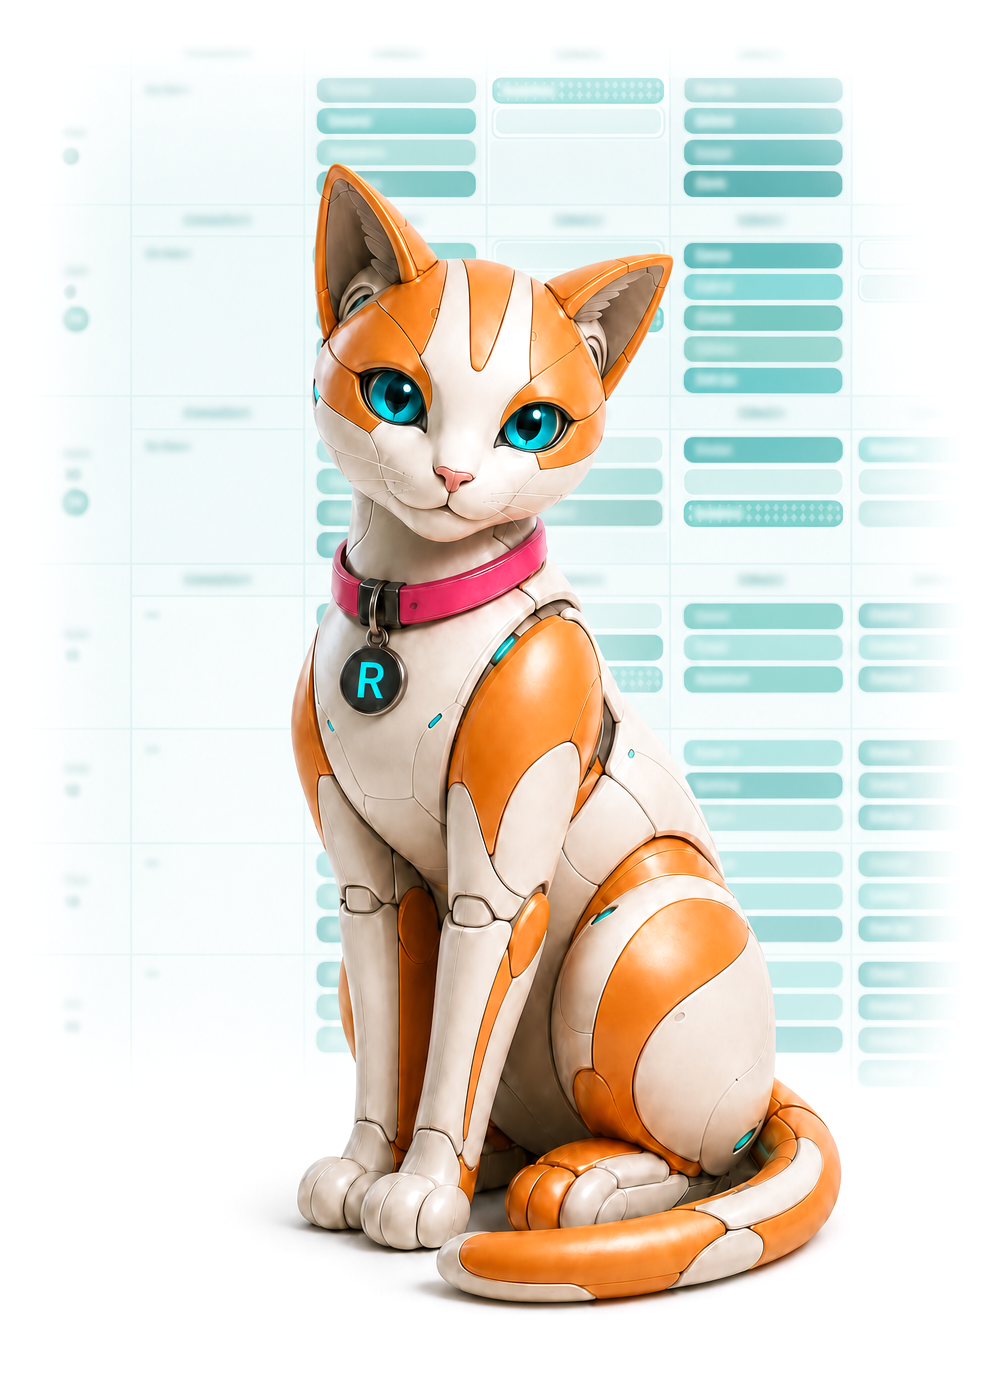
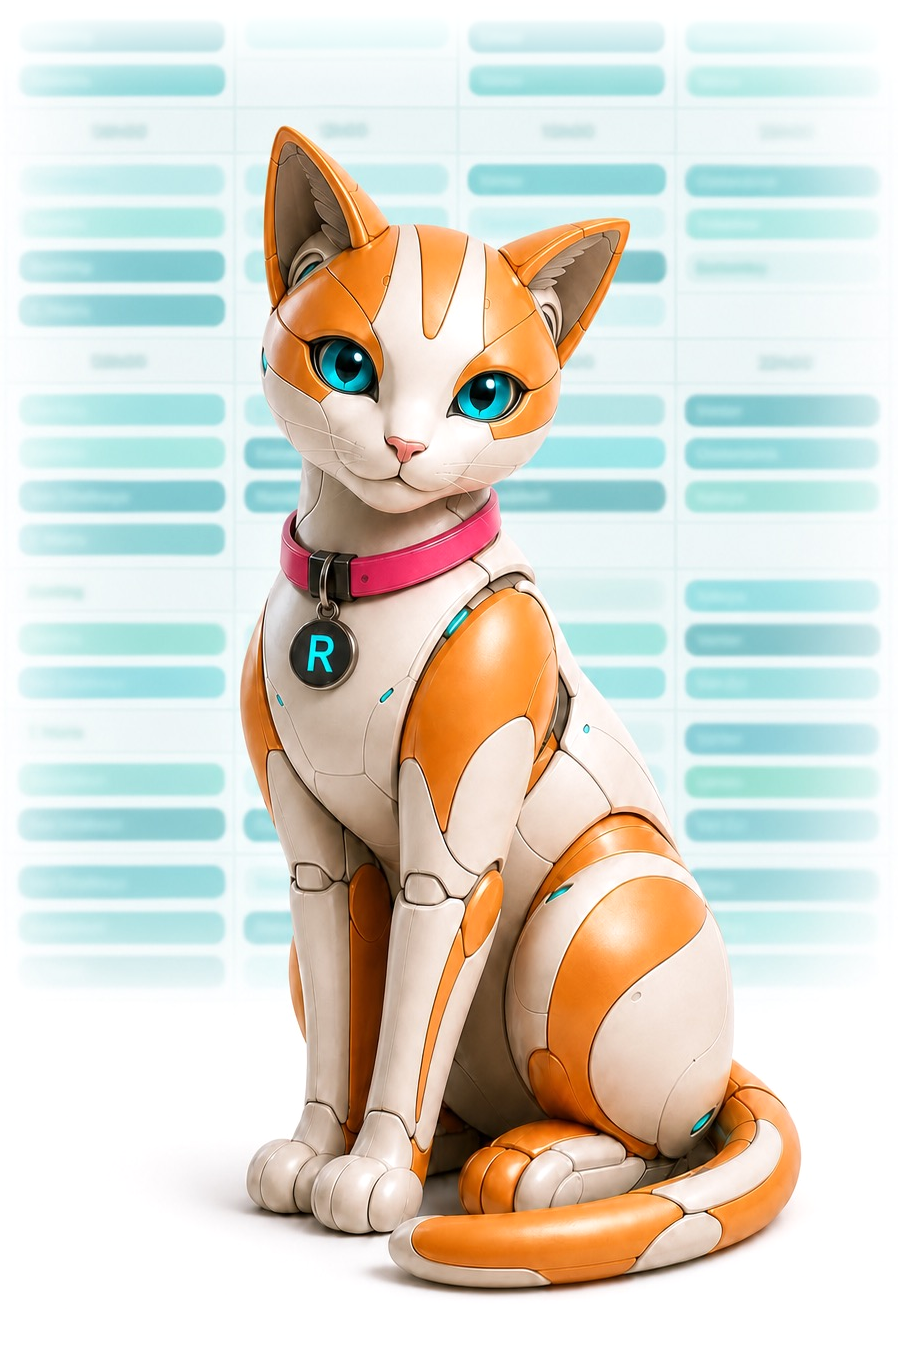
New mascot artwork, and drop the butterfly from the auth heroes
The artwork is the roster-backdrop render again, but cropped and faded
rather than shrunk to fit. Cropping the grid's top edge lifts the cat
back to 86% of the canvas height, so it renders about the size it did
before the backdrop arrived — 223x338 at 390x844, against 216x338 for
the old cut-out and 135 wide for the uncropped scene. The cut across the
grid is ramped to white over an 88px band that ends 36px above the ears,
so the crop dissolves instead of showing an edge. The sides and bottom
need no fade: the columns already fade laterally and stop well above the
cat's paws.

The canvas keeps the same 4.7% paw clearance as before, but the scene is
wider than the cut-out, so at 768px it would have overrun the branding
panel's padding by 5px. max-w-full lets object-contain scale it down
there instead, and guards any future artwork the same way.

The butterfly is gone from both heroes along with its import; the
tagline is now plain text.

Claude-Session: https://claude.ai/code/session_01EAMMBJ3odzxL5sBj4of7jf

diff --git a/src/components/AuthHero.jsx b/src/components/AuthHero.jsx
@@ -1,5 +1,4 @@
 import rotacatMascot from '../assets/rotacat-full-body-mascot.png'
-import butterflyLoop from '../assets/butterfly-loop.webp'
 import RotaCat from './RotaCat'
 
 // Shared hero/branding panel for the split-screen card layout — used by
@@ -15,16 +14,7 @@ export default function AuthHero() {
         <RotaCat />
       </h1>
       <p className="mt-3 whitespace-nowrap text-[14.7px] text-ink-muted sm:text-[16.8px] md:text-[18.9px] md:mt-[15px] lg:text-[23.1px]">
-        Smart ED scheduling, made{' '}
-        <span className="relative inline-block">
-          effortless
-          <img
-            src={butterflyLoop}
-            alt=""
-            className="absolute -top-[18px] -right-[14.5px] h-[34px] w-[34px] -rotate-8 select-none"
-            draggable="false"
-          />
-        </span>
+        Smart ED scheduling, made effortless
       </p>
 
       {/* Full-body mascot, centred under the wordmark with the panel's own
@@ -32,13 +22,16 @@ export default function AuthHero() {
           than width because this canvas is ~1.6x taller than wide: the vh
           term keeps the whole branding column (wordmark + tagline + cat +
           padding) inside a 768px-tall laptop without clipping, and the px
-          cap stops it ballooning on tall displays — roughly 230px wide at
-          1366x768, 275px at the cap. alt="" is deliberate: the wordmark and
-          tagline beside it already carry the same meaning. */}
+          cap stops it ballooning on tall displays. max-w-full then yields to
+          the panel on the one breakpoint where this artwork's roster backdrop
+          makes it wider than the panel's padding allows (768px), letting
+          object-contain scale it down rather than overflow. alt="" is
+          deliberate: the wordmark and tagline beside it already carry the
+          same meaning. */}
       <img
         src={rotacatMascot}
         alt=""
-        className="mt-3 h-[min(250px,30dvh)] w-auto translate-y-[5px] select-none object-contain md:mt-[15px] md:h-[min(430px,45vh)]"
+        className="mt-3 h-[min(250px,30dvh)] w-auto max-w-full translate-y-[5px] select-none object-contain md:mt-[15px] md:h-[min(430px,45vh)]"
         draggable="false"
       />
     </div>

diff --git a/src/components/MobileAuthHero.jsx b/src/components/MobileAuthHero.jsx
@@ -1,5 +1,4 @@
 import rotacatMascot from '../assets/rotacat-full-body-mascot.png'
-import butterflyLoop from '../assets/butterfly-loop.webp'
 import RotaCat from './RotaCat'
 
 // Full-bleed hero for the mobile auth layout — fills whatever space is left
@@ -12,16 +11,7 @@ export default function MobileAuthHero() {
         <RotaCat />
       </h1>
       <p className="mt-2 whitespace-nowrap text-[14.7px] text-ink-muted">
-        Smart ED scheduling, made{' '}
-        <span className="relative inline-block">
-          effortless
-          <img
-            src={butterflyLoop}
-            alt=""
-            className="absolute -top-[16px] -right-[14px] h-[27px] w-[27px] -rotate-8 select-none"
-            draggable="false"
-          />
-        </span>
+        Smart ED scheduling, made effortless
       </p>
 
       {/* Full-body mascot. Sized by height, like the sheet below it, so the
@@ -40,7 +30,7 @@ export default function MobileAuthHero() {
       <img
         src={rotacatMascot}
         alt=""
-        className="mt-2 h-[min(345px,40dvh)] w-auto translate-y-[5px] select-none object-contain [@media(max-height:640px)]:h-[min(200px,34dvh)] sm:h-[min(420px,44dvh)]"
+        className="mt-2 h-[min(345px,40dvh)] w-auto max-w-full translate-y-[5px] select-none object-contain [@media(max-height:640px)]:h-[min(200px,34dvh)] sm:h-[min(420px,44dvh)]"
         draggable="false"
       />
     </div>
